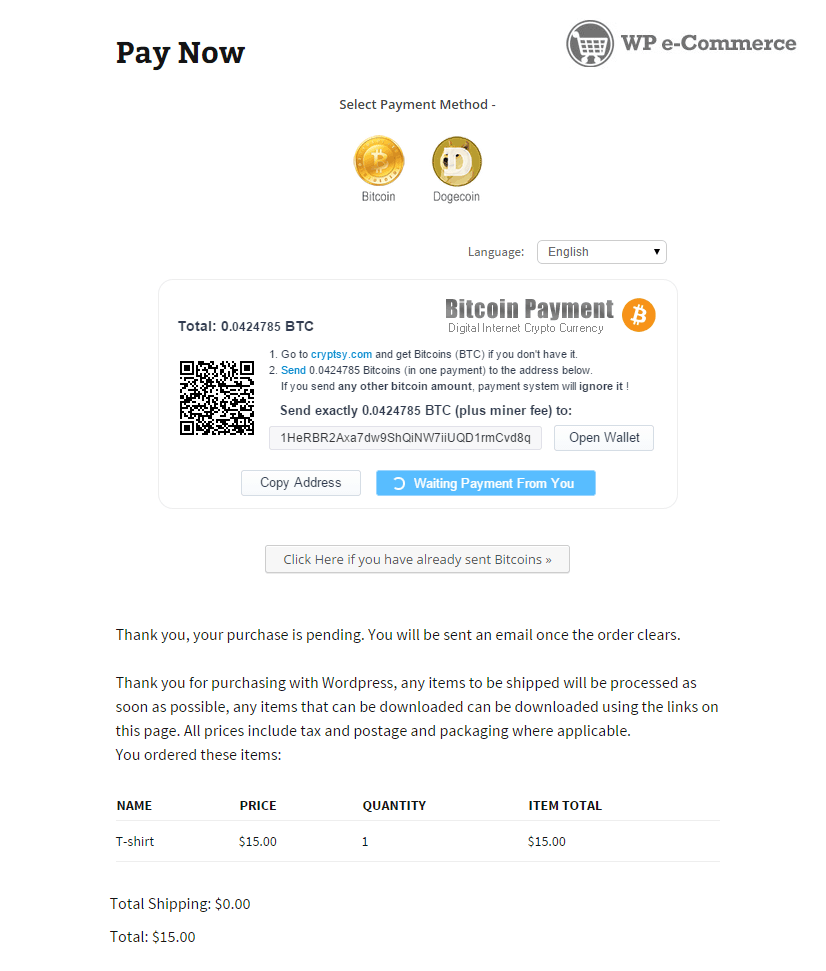
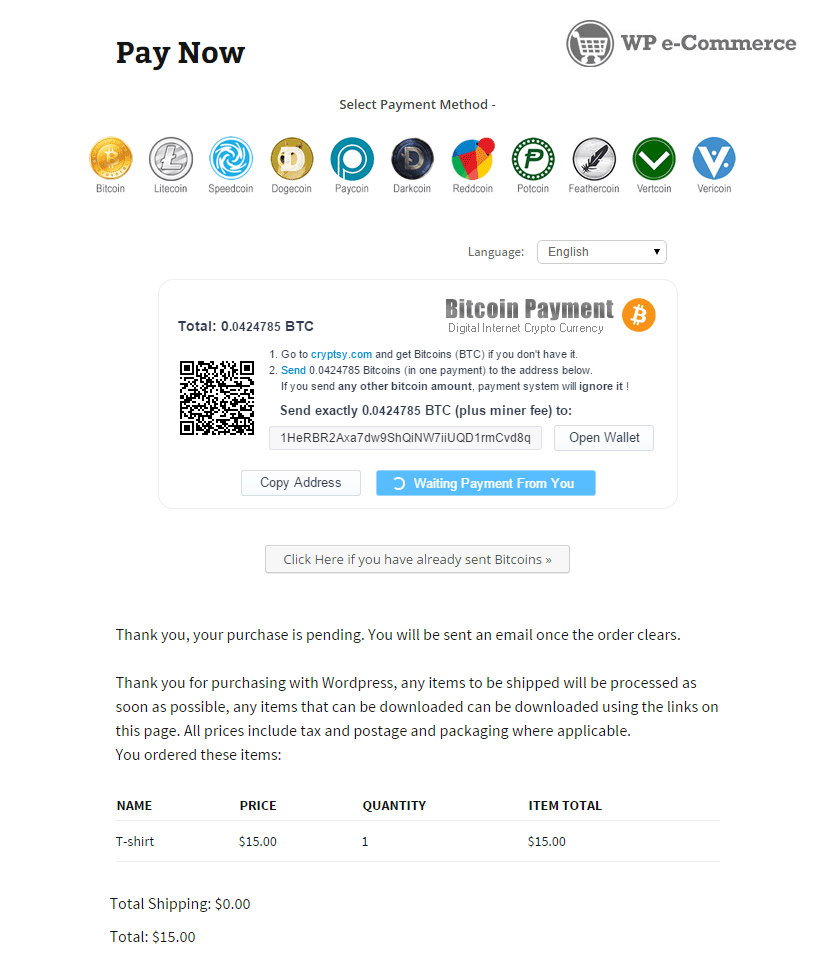
Version 1.0

Changed region(s): [[0.0908, 0.1236, 0.908, 0.2163]]

diff --git a/gourl-wp-ecommerce.php b/gourl-wp-ecommerce.php
@@ -2,7 +2,7 @@
 /*
 Plugin Name: 		GoUrl WP eCommerce - Bitcoin Altcoin Payment Gateway Addon
 Plugin URI: 		https://gourl.io/bitcoin-payments-wp-ecommerce.html
-Description: 		Provides a <a href="https://gourl.io">GoUrl.io</a> Bitcoin Payment Gateway for <a href="https://wordpress.org/plugins/wp-e-commerce/">WP eCommerce 3.8.10+</a>. Support product prices in USD/EUR/etc and in Bitcoin/Altcoins directly; sends the amount straight to your business Bitcoin/Altcoin wallet. Convert your USD/EUR/etc prices to cryptocoins using Google/Cryptsy Live Exchange Rates. Accept Bitcoin, Litecoin, Dogecoin, Speedcoin, Paycoin, Darkcoin, Vertcoin, Reddcoin, Feathercoin, Vericoin, Potcoin payments online. No Chargebacks, Global, Secure. All in automatic mode.
+Description: 		Provides a <a href="https://gourl.io">GoUrl.io</a> Bitcoin/Altcoins Payment Gateway for <a href="https://wordpress.org/plugins/wp-e-commerce/">WP eCommerce 3.8.10+</a>. Support product prices in USD/EUR/etc and in Bitcoin/Altcoins directly; sends the amount straight to your business Bitcoin/Altcoin wallet. Convert your USD/EUR/etc prices to cryptocoins using Google/Bitstamp/Cryptsy Live Exchange Rates. Accept Bitcoin, Litecoin, Speedcoin, Dogecoin, Paycoin, Darkcoin, Reddcoin, Potcoin, Feathercoin, Vertcoin, Vericoin payments online. No Chargebacks, Global, Secure. All in automatic mode.
 Version: 			1.0.0
 Author: 			GoUrl.io
 Author URI: 		https://gourl.io
@@ -110,9 +110,9 @@ class wpsc_gourl_gateway extends wpsc_merchant
 	
 		if (class_exists('gourlclass') && defined('GOURL') && defined('GOURL_ADMIN') && is_object($gourl))
 		{
-			if (true === version_compare(GOURL_VERSION, '1.2.6', '<'))
+			if (true === version_compare(GOURL_VERSION, '1.2.7', '<'))
 			{
-				$description .= '<div class="error"><p>' .sprintf(__( '<b>Your GoUrl Bitcoin Gateway <a href="%s">Main Plugin</a> version is too old. Requires 1.2.6 or higher version. Please <a href="%s">update</a> to latest version.</b>  &#160; &#160; &#160; &#160; Information: &#160; <a href="https://gourl.io/bitcoin-wordpress-plugin.html">Plugin Homepage</a> &#160; &#160; &#160; <a href="https://wordpress.org/plugins/gourl-bitcoin-payment-gateway-paid-downloads-membership/">WordPress.org Plugin Page</a>', GOURLWPSC ), GOURL_ADMIN.GOURL, $mainplugin_url).'</p></div>';
+				$description .= '<div class="error"><p>' .sprintf(__( '<b>Your GoUrl Bitcoin Gateway <a href="%s">Main Plugin</a> version is too old. Requires 1.2.7 or higher version. Please <a href="%s">update</a> to latest version.</b>  &#160; &#160; &#160; &#160; Information: &#160; <a href="https://gourl.io/bitcoin-wordpress-plugin.html">Plugin Homepage</a> &#160; &#160; &#160; <a href="https://wordpress.org/plugins/gourl-bitcoin-payment-gateway-paid-downloads-membership/">WordPress.org Plugin Page</a>', GOURLWPSC ), GOURL_ADMIN.GOURL, $mainplugin_url).'</p></div>';
 			}
 			elseif (true === version_compare(WPSC_VERSION, '3.8.10', '<'))
 			{
@@ -143,7 +143,7 @@ class wpsc_gourl_gateway extends wpsc_merchant
 		}
 	
 		$description .= __( 'If you use multiple stores/sites online, please create separate <a target="_blank" href="https://gourl.io/editrecord/coin_boxes/0">GoUrl Payment Box</a> (with unique payment box public/private keys) for each of your stores/websites. Do not use the same GoUrl Payment Box with the same public/private keys on your different websites/stores.', GOURLWPSC ).'<br/>';
-		$description .= sprintf(__( 'Accept %s payments online in WP eCommerce.', GOURLWPSC), ($coin_names?ucwords(implode(", ", $coin_names)):"Bitcoin, Litecoin, Dogecoin, Speedcoin, Paycoin, Darkcoin, Vertcoin, Reddcoin, Feathercoin, Vericoin, Potcoin")).'<br/>';
+		$description .= sprintf(__( 'Accept %s payments online in WP eCommerce.', GOURLWPSC), ($coin_names?ucwords(implode(", ", $coin_names)):"Bitcoin, Litecoin, Speedcoin, Dogecoin, Paycoin, Darkcoin, Reddcoin, Potcoin, Feathercoin, Vertcoin, Vericoin")).'<br/>';
 	
 		
 		// a
@@ -260,16 +260,16 @@ class wpsc_gourl_gateway extends wpsc_merchant
 		$mainplugin_url = admin_url("plugin-install.php?tab=search&type=term&s=GoUrl+Bitcoin+Payment+Gateway+Downloads");
 	
 		// Re-test
-		if (!(class_exists('gourlclass') && defined('GOURL') && defined('GOURL_ADMIN') && is_object($gourl) && true === version_compare(GOURL_VERSION, '1.2.6', '>=')))
+		if (!(class_exists('gourlclass') && defined('GOURL') && defined('GOURL_ADMIN') && is_object($gourl) && true === version_compare(GOURL_VERSION, '1.2.7', '>=')))
 		{
-			$this->set_error_message('<div style="border:1px solid #eee;margin:20px 10px;padding:10px">'.sprintf(__( '<b>Error!</b> Please try a different payment method. Admin need to install and activate GoUrl Bitcoin Gateway Main Plugin 1.2.6+. <a href="%s">Bitcoin Gateway plugin page</a><br>Information: &#160; <a href="https://gourl.io/bitcoin-wordpress-plugin.html">Plugin Homepage</a> &#160; &#160; &#160; <a href="https://wordpress.org/plugins/gourl-bitcoin-payment-gateway-paid-downloads-membership/">WordPress.org Plugin Page</a> ', GOURLWPSC ), $mainplugin_url).'</p></div>');
+			$this->set_error_message('<div style="border:1px solid #eee;margin:20px 10px;padding:10px">'.sprintf(__( '<b>Error!</b> Please try a different payment method. Admin need to install and activate GoUrl Bitcoin Gateway Main Plugin 1.2.7+. <a href="%s">Bitcoin Gateway plugin page</a><br>Information: &#160; <a href="https://gourl.io/bitcoin-wordpress-plugin.html">Plugin Homepage</a> &#160; &#160; &#160; <a href="https://wordpress.org/plugins/gourl-bitcoin-payment-gateway-paid-downloads-membership/">WordPress.org Plugin Page</a> ', GOURLWPSC ), $mainplugin_url).'</p></div>');
 			$this->set_purchase_processed_by_purchid(1); // WPSC_Purchase_Log::INCOMPLETE_SALE
 			return;
 		}
 	
 		// Checkout
 		$user = get_current_user_id();
-		if (!$user) $user = "Guest"; else $user = "<a href='".htmlspecialchars("user-edit.php?user_id=".$user, ENT_QUOTES)."'>user".$user."</a>";
+		$user = (!$user) ? __('Guest', GOURLWPSC) : "<a href='".htmlspecialchars("user-edit.php?user_id=".$user, ENT_QUOTES)."'>user".$user."</a>";
 		$this->set_purchase_processed_by_purchid(1);
 		$this->add_order_note($this->purchase_id, sprintf(__('Order Created by %s<br>Awaiting Cryptocurrency Payment ...', GOURLWPSC ), $user));
 		$this->go_to_transaction_results($this->cart_data['session_id']);
@@ -352,7 +352,7 @@ class wpsc_gourl_gateway extends wpsc_merchant
 			echo '<h2>' . __( 'Information', GOURLWPSC ) . '</h2>' . PHP_EOL;
 			echo "<div style='border:1px solid #eee;margin:20px 10px;padding:10px'>".__( "Please try a different payment method. Admin need to install and activate wordpress plugin 'GoUrl Bitcoin Gateway' (https://gourl.io/bitcoin-wordpress-plugin.html) to accept Bitcoin/Altcoin Payments online", GOURLWPSC )."</div>";
 		}
-		elseif (!$payments || !$defcoin || true === version_compare(WPSC_VERSION, '3.8.10', '<') || true === version_compare(GOURL_VERSION, '1.2.6', '<') ||
+		elseif (!$payments || !$defcoin || true === version_compare(WPSC_VERSION, '3.8.10', '<') || true === version_compare(GOURL_VERSION, '1.2.7', '<') ||
 				(array_key_exists($order_currency, $coin_names) && !array_key_exists($order_currency, $payments)))
 		{
 			echo '<h2>' . __( 'Information', GOURLWPSC ) . '</h2>' . PHP_EOL;

diff --git a/readme.md b/readme.md
@@ -5,12 +5,13 @@ GoUrl WP eCommerce - Bitcoin Altcoin Payment Gateway Addon
 Version 1.0
 
 
-**Wordpress Plugin provides a Bitcoin Payment Gateway for WP eCommerce 3.8.10+ or higher.**
+**Wordpress Plugin provides a Bitcoin/Altcoins Payment Gateway for WP eCommerce 3.8.10+ or higher.**
 
-Accept Bitcoin, Litecoin, Dogecoin, Speedcoin, Paycoin, Darkcoin, Vertcoin, Reddcoin, Feathercoin, Vericoin, Potcoin on Website Online
+Accept Bitcoin, Litecoin, Speedcoin, Dogecoin, Paycoin, Darkcoin, Reddcoin, Potcoin, Feathercoin, Vertcoin, Vericoin on Website Online
 
 * Author URI: [https://gourl.io](https://gourl.io)
-* Plugin URI: [https://gourl.io/bitcoin-payments-wp-ecommerce.html](https://gourl.io/bitcoin-payments-wp-ecommerce.html)
+* Plugin Page: [https://gourl.io/bitcoin-payments-wp-ecommerce.html](https://gourl.io/bitcoin-payments-wp-ecommerce.html)
+* Wordpress Page: [https://wordpress.org/plugins/gourl-wp-ecommerce-bitcoin-altcoin-payment-gateway-addon](https://wordpress.org/plugins/gourl-wp-ecommerce-bitcoin-altcoin-payment-gateway-addon/)
 * Screenshots: [https://gourl.io/bitcoin-payments-wp-ecommerce.html#screenshot](https://gourl.io/bitcoin-payments-wp-ecommerce.html#screenshot)
 * Requires at least: Wordpress 3.5 and WP eCommerce 3.8.10
 * Tested up to: Wordpress 4.2 and WP eCommerce 3.9.1 
@@ -21,15 +22,15 @@ Accept Bitcoin, Litecoin, Dogecoin, Speedcoin, Paycoin, Darkcoin, Vertcoin, Redd
 **Wordpress Plugin for WP eCommerce Features -**
 
 * 100% Free Open Source Plugin on [Github.com](https://github.com/cryptoapi/Bitcoin-Payments-WP-eCommerce)
-* Provides a Payment Gateway for [WP eCommerce 3.8.10 or higher](https://wordpress.org/plugins/wp-e-commerce)
+* Provides a Cryptocurrency Payment Gateway for [WP eCommerce 3.8.10 or higher](https://wordpress.org/plugins/wp-e-commerce)
 * Accept Bitcoin and other cryptocurrency payments in WP eCommerce
 * No Monthly Fee, Transaction Fee from 0%
 * Product Prices in Bitcoin/Altcoins directly and sends the amount straight to your business wallet.
-* Product Prices in USD/EUR/GBP/etc. Google/Cryptsy Live Exchange Rates
+* Product Prices in USD/EUR/GBP/etc. Google/Bitstamp/Cryptsy Live Exchange Rates
 * Direct Integration on your website, no external payment pages opens (as other payment gateways offer)
 * You will see the bitcoin/altcoin payment statistics in one common table on your website. 
 * No Chargebacks, Global, Secure. All in automatic mode.
-* [Free Plugin Support](https://gourl.io/view/contact/Contact_Us.html) for You
+* [Free Tech Support](https://gourl.io/view/contact/Contact_Us.html) for You
 
 
 # ![WP eCommerce-Order-Page](https://gourl.io/images/wp-ecommerce/screenshot-2.png)
@@ -68,4 +69,5 @@ Plugin Options
 
   
 # ![WP eCommerce-Plugin-Options](https://gourl.io/images/wp-ecommerce/screenshot-1.png)
-        
+      
+ 
